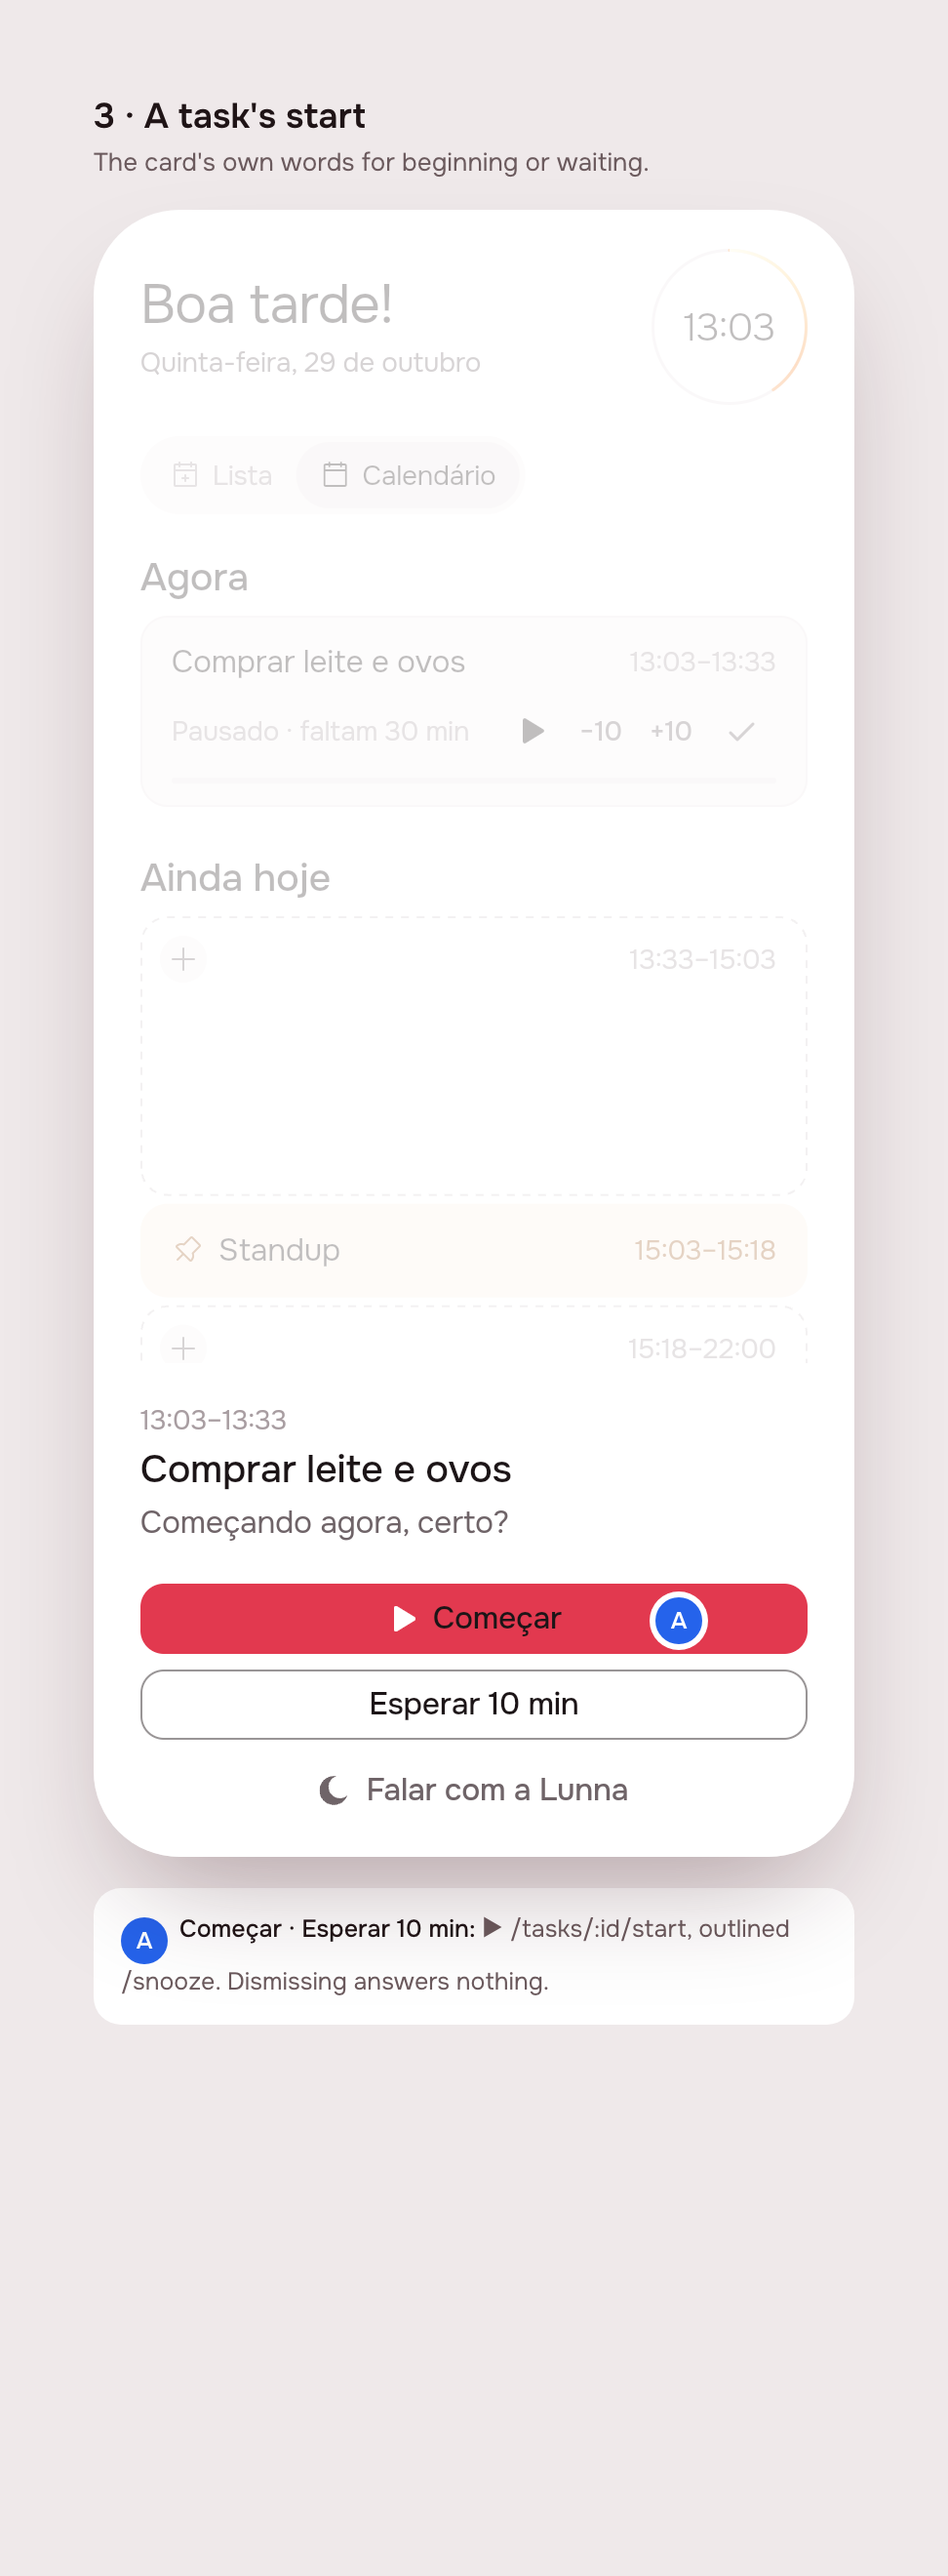
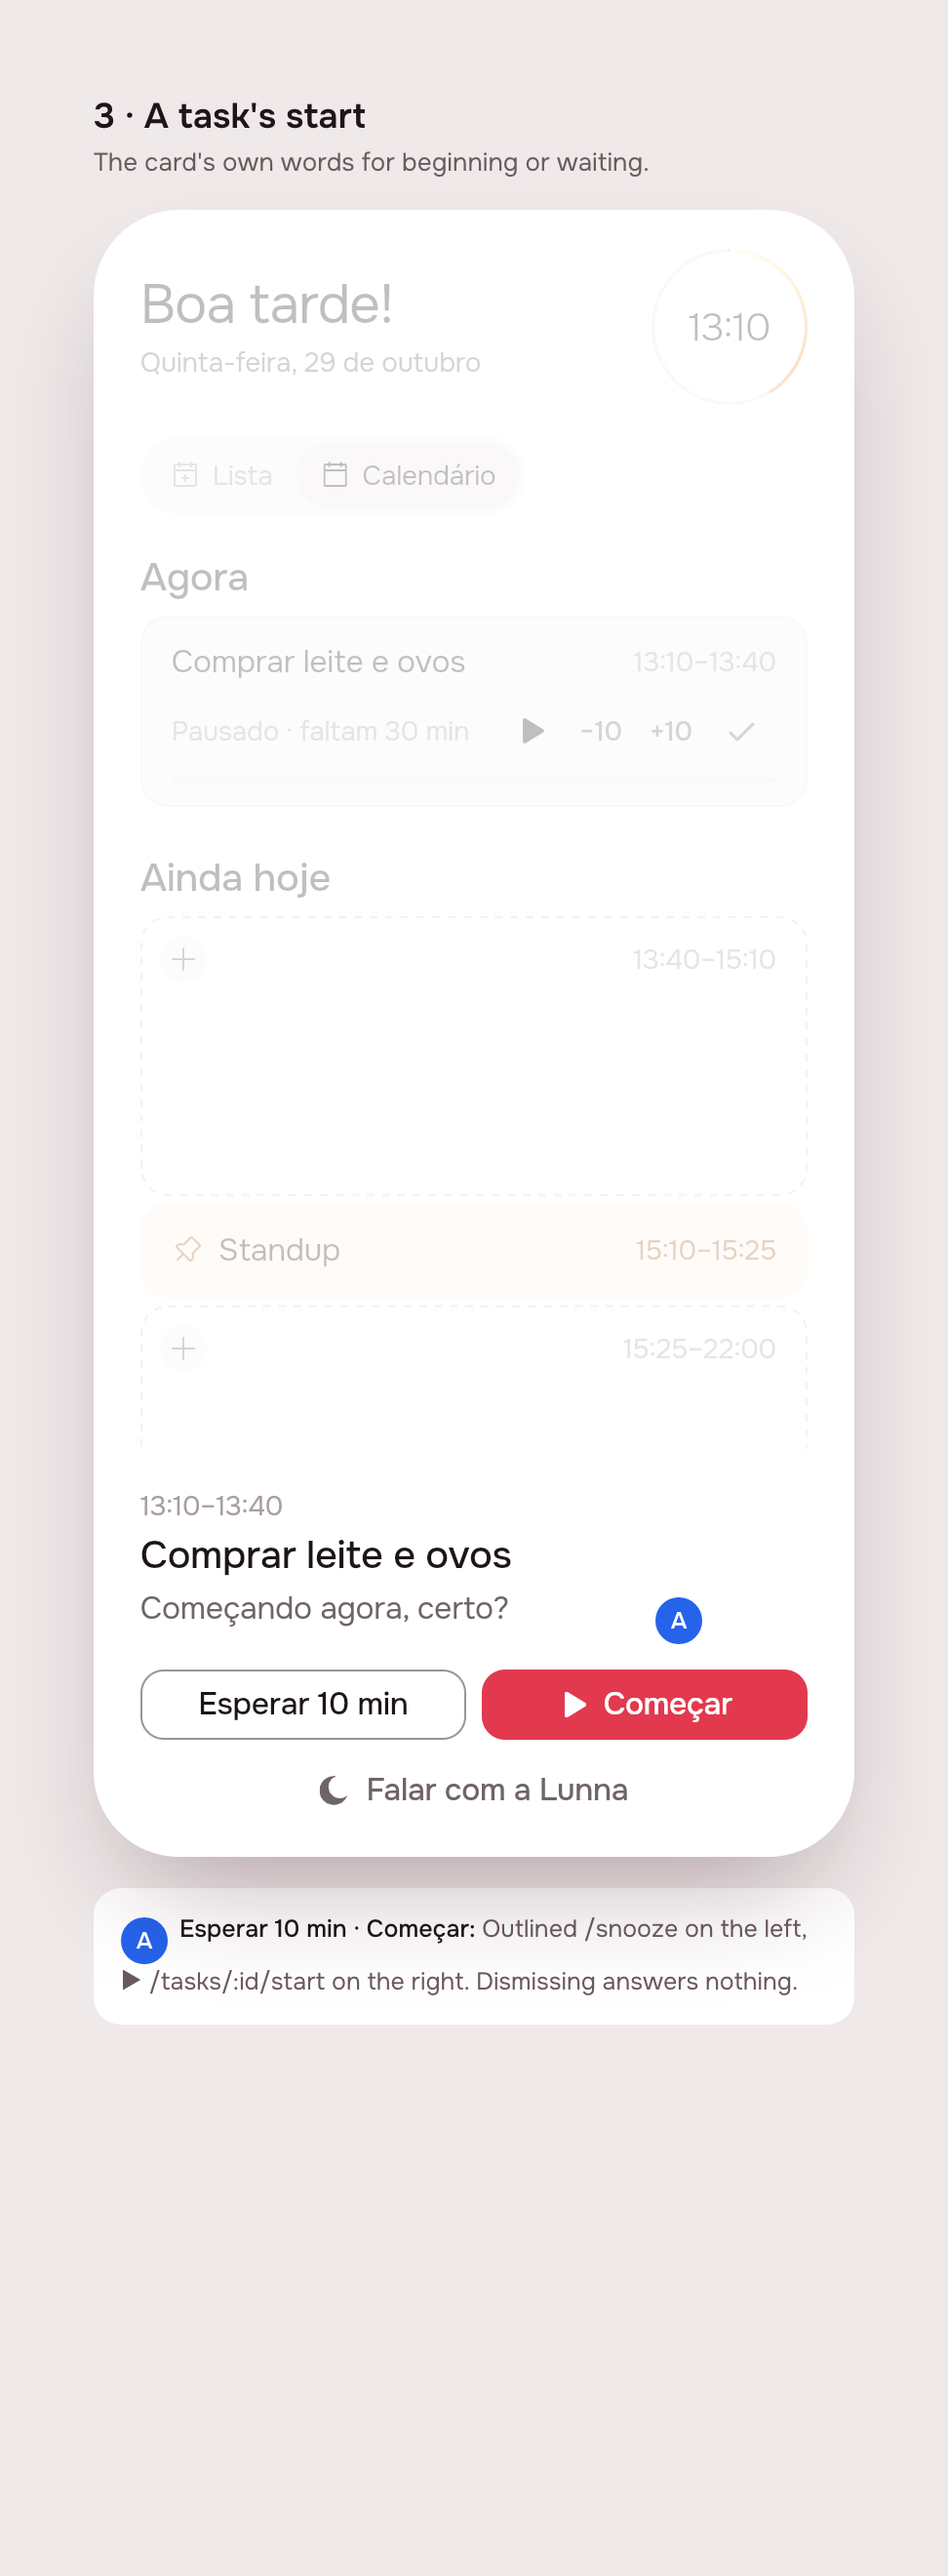
create(#65): revise · Fix notifications interaction

Changed region(s): [[0.1235, 0.528, 0.8642, 0.6833], [0.1235, 0.7455, 0.8333, 0.7765], [0.7099, 0.4659, 0.7407, 0.497]]

diff --git a/app/lib/notifications/view/reminder_sheet.dart b/app/lib/notifications/view/reminder_sheet.dart
@@ -38,8 +38,9 @@ class ReminderAsk {
 /// iOS draws a notification's buttons only when it is held down, so the
 /// reminder carries none: a tap opens Tempo with this sheet over it, and it
 /// asks the same thing the reminder said, with the answers the card's own
-/// buttons give. One accent answer (yes, it started; yes, it is over), one
-/// outlined (ten minutes), and the agent, quiet, at the foot. Dismissing it
+/// buttons give. Ten minutes outlined on the left, the answer in the accent
+/// on the right (yes, it started; yes, it is over), and the agent, quiet,
+/// at the foot. Dismissing it
 /// answers nothing.
 /// {@endtemplate}
 class ReminderSheet extends StatelessWidget {
@@ -122,23 +123,33 @@ class ReminderSheet extends StatelessWidget {
                   style: AppTypography.body.copyWith(color: AppColors.ink2),
                 ),
               const SizedBox(height: AppSpacing.s5),
-              AppButton.icon(
-                text: confirm,
-                icon: AppIcon(
-                  iconData: start ? AppIcons.play : AppIcons.check,
-                  size: AppSpacing.s4,
-                  color: AppColors.onAccent,
-                ),
-                expand: true,
-                onPressed: () => answer(NotificationAction.confirm),
-              ),
-              const SizedBox(height: AppSpacing.s2),
-              AppButton(
-                text: later,
-                variant: AppButtonVariant.secondary,
-                color: AppColors.ink,
-                expand: true,
-                onPressed: () => answer(NotificationAction.later),
+              // Ten minutes on the left, the answer on the right, as on
+              // the running card, whose ✓ closes its controls.
+              Row(
+                children: [
+                  Expanded(
+                    child: AppButton(
+                      text: later,
+                      variant: AppButtonVariant.secondary,
+                      color: AppColors.ink,
+                      expand: true,
+                      onPressed: () => answer(NotificationAction.later),
+                    ),
+                  ),
+                  const SizedBox(width: AppSpacing.s2),
+                  Expanded(
+                    child: AppButton.icon(
+                      text: confirm,
+                      icon: AppIcon(
+                        iconData: start ? AppIcons.play : AppIcons.check,
+                        size: AppSpacing.s4,
+                        color: AppColors.onAccent,
+                      ),
+                      expand: true,
+                      onPressed: () => answer(NotificationAction.confirm),
+                    ),
+                  ),
+                ],
               ),
               const SizedBox(height: AppSpacing.s2),
               AppButton.icon(

diff --git a/app/packages/timeline/lib/src/widgets/now_surface.dart b/app/packages/timeline/lib/src/widgets/now_surface.dart
@@ -281,7 +281,8 @@ class _NowProgressState extends State<NowProgress> {
 ///
 /// The bar would be full and say nothing; the line says how late the end
 /// is, and the answer most likely is the one button in the accent: it is
-/// over. Ten minutes more sits beside it, outlined. Pause and −10 are left
+/// over, on the right where the running card's ✓ is. Ten minutes more sits
+/// on its left, outlined. Pause and −10 are left
 /// out: a late block is not being measured any more, only closed.
 /// {@endtemplate}
 class NowLate extends StatelessWidget {
@@ -327,8 +328,19 @@ class NowLate extends StatelessWidget {
         ),
         if (onDone != null) ...[
           const SizedBox(height: AppSpacing.s3),
+          // +10 on the left, Terminei on the right: where the card's ✓
+          // sits in its controls while it runs.
           Row(
             children: [
+              if (onAdjusted != null) ...[
+                AppButton(
+                  text: context.l10n.notificationActionLater,
+                  variant: AppButtonVariant.secondary,
+                  color: AppColors.ink,
+                  onPressed: () => onAdjusted!(stepMinutes),
+                ),
+                const SizedBox(width: AppSpacing.s2),
+              ],
               Expanded(
                 child: AppButton.icon(
                   text: context.l10n.reminderFinished,
@@ -341,15 +353,6 @@ class NowLate extends StatelessWidget {
                   onPressed: onDone,
                 ),
               ),
-              if (onAdjusted != null) ...[
-                const SizedBox(width: AppSpacing.s2),
-                AppButton(
-                  text: context.l10n.notificationActionLater,
-                  variant: AppButtonVariant.secondary,
-                  color: AppColors.ink,
-                  onPressed: () => onAdjusted!(stepMinutes),
-                ),
-              ],
             ],
           ),
         ],

diff --git a/app/packages/app_ui/lib/src/widgets/app_button.dart b/app/packages/app_ui/lib/src/widgets/app_button.dart
@@ -141,10 +141,14 @@ class AppButton extends StatelessWidget {
     return FilledButton(onPressed: onPressed, style: style, child: child);
   }
 
-  /// Black or white, whichever stays readable on [background].
+  /// Black or white, whichever stays readable on [background]: the
+  /// accent's own [AppColors.onAccent] (white on Lunna's red, black on
+  /// Focus's lime), and by luminance for any other fill. The brand's ink is
+  /// not used here: on Lunna it is near black, which drew black on red.
   static Color _onColor(Color background) {
+    if (background == AppColors.accent) return AppColors.onAccent;
     return background.computeLuminance() > 0.5
-        ? AppColors.onAccent
-        : AppColors.ink;
+        ? const Color(0xFF000000)
+        : const Color(0xFFFFFFFF);
   }
 }

diff --git a/product/delivery/2026-10-29-reminders-basics/README.md b/product/delivery/2026-10-29-reminders-basics/README.md
@@ -23,6 +23,13 @@ Issue #65, *Fix notifications interaction*:
 Worked unattended by the queue; the decisions it took alone are listed
 under *Decided unattended*, and the person approves on the issue.
 
+The first board was reviewed on the issue, and the person replied:
+
+> ok great, but adjust the look of it, the contrast is awful, it is black above red. Also invert 10 min at the left and terminei at the right to maintain consistency with the done button
+
+Second round: the labels on red are white now, and +10 sits on the left
+with the answer on the right, on the card and in the sheet.
+
 ## 2. The design
 
 ![The board](img/mockup-board.png)
@@ -36,21 +43,24 @@ Lunna). Each screen alone: [1](img/mockup-1.png) ·
 
 1. **Agora, late.** A begun block past its end with no answer loses its
    progress bar (it would be full and say nothing). In its place, in the
-   danger ink: **"Atraso no término · 12 minutos"**, and under it the one
-   accent button of the card, **Terminei** (✓), with **+10 min** outlined
-   beside it. Pause and −10 are left out while it is late: a late block is
+   danger ink: **"Atraso no término · 12 minutos"**, and under it one row:
+   **+10 min** outlined on the left, and the one accent button of the card,
+   **Terminei** (✓, white on the red), filling the rest on the right, where
+   the running card's ✓ closes its controls. Pause and −10 are left out while it is late: a late block is
    not being measured any more, only closed. Replaces the "atrasado N min"
    tag.
 2. **A tap on a reminder opens a sheet** over Tempo, the same question the
    reminder asked, read again from the day (so "12 minutos" is what it is
    now, not what it was when the reminder fired): the hours, the title, the
-   question, and three answers. A task's end: **Terminei** ·
-   **Mais 10 min** · **Falar com a Lunna**.
-3. **A task's start**: **Começar** (▶) · **Esperar 10 min** · Falar com a
+   question, and three answers: the ten minutes and the answer side by
+   side (ten minutes left, answer right, as on the card), the agent under
+   them. A task's end: **Mais 10 min** | **Terminei** · **Falar com a
+   Lunna**.
+3. **A task's start**: **Esperar 10 min** | **Começar** (▶) · Falar com a
    Lunna.
-4. **A fixed block's start** (it starts anyway): **Confirmar** (▶) ·
-   **Adiar 10 min** · Falar com a Lunna. A fixed block's end is the task's
-   end (Terminei · Mais 10 min).
+4. **A fixed block's start** (it starts anyway): **Adiar 10 min** |
+   **Confirmar** (▶) · Falar com a Lunna. A fixed block's end is the
+   task's end (Mais 10 min | Terminei).
 5. **The Lock Screen keeps one reminder**, titled with the card and asking
    one plain thing. Every new reminder takes the place of the one before.
 
@@ -59,12 +69,12 @@ Lunna). Each screen alone: [1](img/mockup-1.png) ·
 They are the routes the reminders' buttons post today
 (`NotificationAnswer.of`), unchanged; only where they are drawn moves.
 
-| Case | Accent | Outlined | Quiet |
+| Case | Outlined (left) | Accent (right) | Quiet (below) |
 |---|---|---|---|
-| task, start | Começar → `/tasks/:id/start` | Esperar 10 min → `/tasks/:id/snooze` | Falar com a Lunna |
-| task, end | Terminei → `/tasks/:id/done` | Mais 10 min → `/tasks/:id/extend` | Falar com a Lunna |
-| fixed block, start | Confirmar → `/events/:id/start` | Adiar 10 min → `/events/:id/delay` | Falar com a Lunna |
-| fixed block, end | Terminei → `/events/:id/done` | Mais 10 min → `/events/:id/extend` | Falar com a Lunna |
+| task, start | Esperar 10 min → `/tasks/:id/snooze` | Começar → `/tasks/:id/start` | Falar com a Lunna |
+| task, end | Mais 10 min → `/tasks/:id/extend` | Terminei → `/tasks/:id/done` | Falar com a Lunna |
+| fixed block, start | Adiar 10 min → `/events/:id/delay` | Confirmar → `/events/:id/start` | Falar com a Lunna |
+| fixed block, end | Mais 10 min → `/events/:id/extend` | Terminei → `/events/:id/done` | Falar com a Lunna |
 
 Falar com a Lunna opens the agent's sheet about the card, as the button
 does today. Dismissing the sheet answers nothing.
@@ -95,12 +105,12 @@ they are about.
 | Pin | Decision | Why |
 |---|---|---|
 | 1A | Late: the line "Atraso no término · N minutos" in `dangerInk` with the warning mark, where the bar was | the issue's words; the bar at 100 % says nothing |
-| 1B | **Terminei** is the card's only accent button, full width; **+10 min** outlined beside it | "a more evident button"; ending is the likely answer to a late block |
-| 1C | Pause, −10 and the "atrasado" tag go while late | one way to read the state, two answers |
+| 1B | **Terminei** is the card's only accent button, on the right, filling the row, its label and ✓ white (`onAccent`) | "a more evident button"; the right is where the running card's ✓ is (the review); white on red reads, black did not |
+| 1C | **+10 min** outlined on the **left**; pause, −10 and the "atrasado" tag go while late | the review: ten minutes left, the answer right; one way to read the state, two answers |
 | 2A | The sheet's head: hours (ink3), the title, the question | the title is what the reminder was about; the hours say which one |
-| 2B | Accent ✓ **Terminei**, outlined **Mais 10 min**, tertiary **Falar com a Lunna** with the crescent | the same three answers the reminder's buttons had, ranked |
-| 3A | A task's start: ▶ **Começar** · **Esperar 10 min** | the card's own words (`controlStart`, `controlWait10`) |
-| 4A | A fixed block's start: ▶ **Confirmar** · **Adiar 10 min** | +10 on a fixed start moves it (`delay`), so it says *adiar* |
+| 2B | One row: outlined **Mais 10 min** left, accent ✓ **Terminei** right; tertiary **Falar com a Lunna** with the crescent under it | the same three answers the reminder's buttons had, ranked, and in the card's order |
+| 3A | A task's start: **Esperar 10 min** \| ▶ **Começar** | the card's own words (`controlStart`, `controlWait10`) |
+| 4A | A fixed block's start: **Adiar 10 min** \| ▶ **Confirmar** | +10 on a fixed start moves it (`delay`), so it says *adiar* |
 | 5A | Title = the card's title; body = one question | the issue's example: "Café — terminando agora, certo?" |
 | 5B | One reminder of the app on the Lock Screen at a time | the issue's 2: the day is a timeline, the old ones are stale |
 
@@ -135,6 +145,19 @@ No new icon: ✓ (`AppIcons.check`), ▶ (`AppIcons.play`), ⚠
   extension and `live_activity.dart` stay in the tree, unused, behind one
   constant (`kLiveActivity = false`), so turning it back on is one line.
   `product/spec/live-activity.md` says so.
+- **The contrast is fixed in `AppButton`, for every button.** The black
+  on red came from `AppButton._onColor`, which drew a filled button's
+  label in `AppColors.ink` whenever the fill was dark: on Lunna that ink
+  is near black, so every red primary button in Lunna had a black label
+  (its icon, passed in as `onAccent`, was already white). Now the accent's
+  label is `onAccent` (white on Lunna's red, black on Focus's lime, as
+  before) and any other fill picks black or white by its luminance. Focus
+  looks the same; on Lunna every red button gets a white label, not only
+  these. The late card keeps its tint.
+- **The sheet follows the card's order too.** The reply named the card's
+  buttons; the sheet's two answers were stacked, so they are now one row,
+  ten minutes left and the answer right, with the agent under them, so the
+  answer sits on the same side wherever it is asked.
 - **Wording**: "Atraso no término · 12 minutos" with the app's middle dot
   rather than the issue's hyphen; the late button says **Terminei**, the
   word the Live Activity already used, rather than "Concluir".
@@ -161,8 +184,12 @@ them):**
 - `app/lib/notifications/view/reminder_sheet.dart`: `ReminderAsk`,
   `ReminderSheet` (+ `ReminderSheet.show`), real.
 - `app/packages/timeline/lib/src/widgets/now_surface.dart`: `NowLate`,
-  real; `event_tile.dart` draws it in place of the tag and `NowProgress`
-  while `card.isLate`.
+  real (+10 left, Terminei right); `event_tile.dart` draws it in place of
+  the tag and `NowProgress` while `card.isLate`.
+- `app/packages/app_ui/lib/src/widgets/app_button.dart`: `_onColor` gives
+  the accent `onAccent` and other fills black or white by luminance (the
+  review's contrast). Its tests pass under both brands; the build adds one
+  that a Lunna accent button's label is white.
 - `app/lib/demo/data/demo_repositories.dart`, `app/lib/demo/view/demo_app.dart`:
   a `late` option on the demo's day (the running task that many minutes
   past its end).
@@ -197,9 +224,11 @@ them):**
 - Live Activity off (`kLiveActivity = false`): `RemindersListener` stops
   syncing it, and ends any running one at launch.
 - `EventTile`: the late branch (done); its tests: no progress bar and a
-  Terminei button while `overtimeMinutes > 0`.
+  Terminei button while `overtimeMinutes > 0`, +10 before it. The old test
+  `says "atrasado" on Agora while it runs past its end` fails since the
+  design removed the tag: rewrite it for "Atraso no término".
 - Tests: `ReminderSheet` (the four cases' labels and the answer each
-  returns, the late line), `RemindersListener` (tap → sheet → the route),
+  returns, later on the left of confirm, the late line), `RemindersListener` (tap → sheet → the route),
   the queue (no category, clearing), under both brands.
 
 **Docs:** `product/spec/notifications.md` (the sheet, the copy, clearing,
